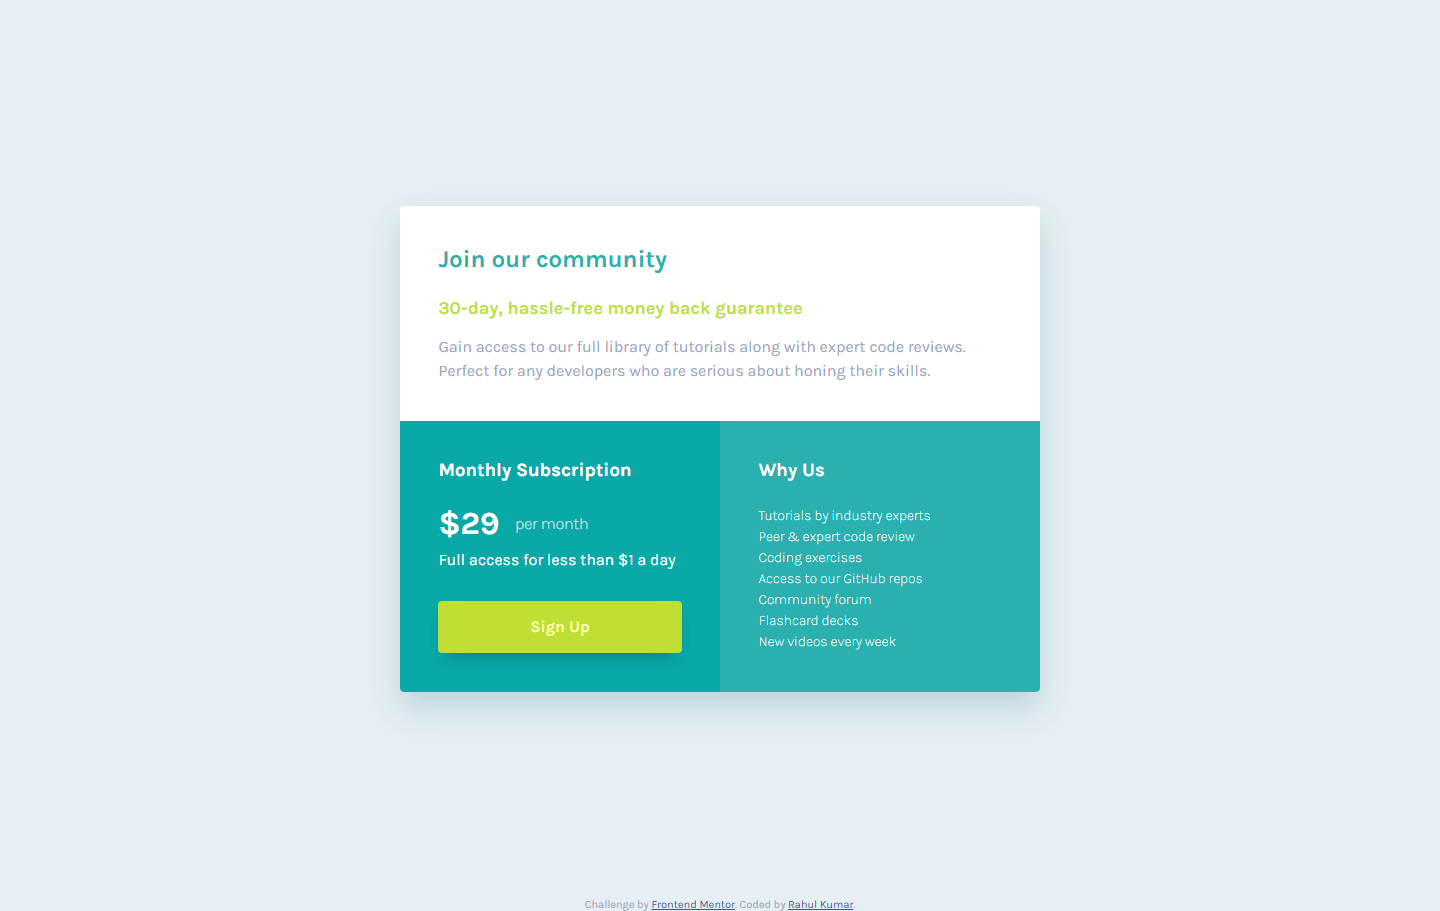
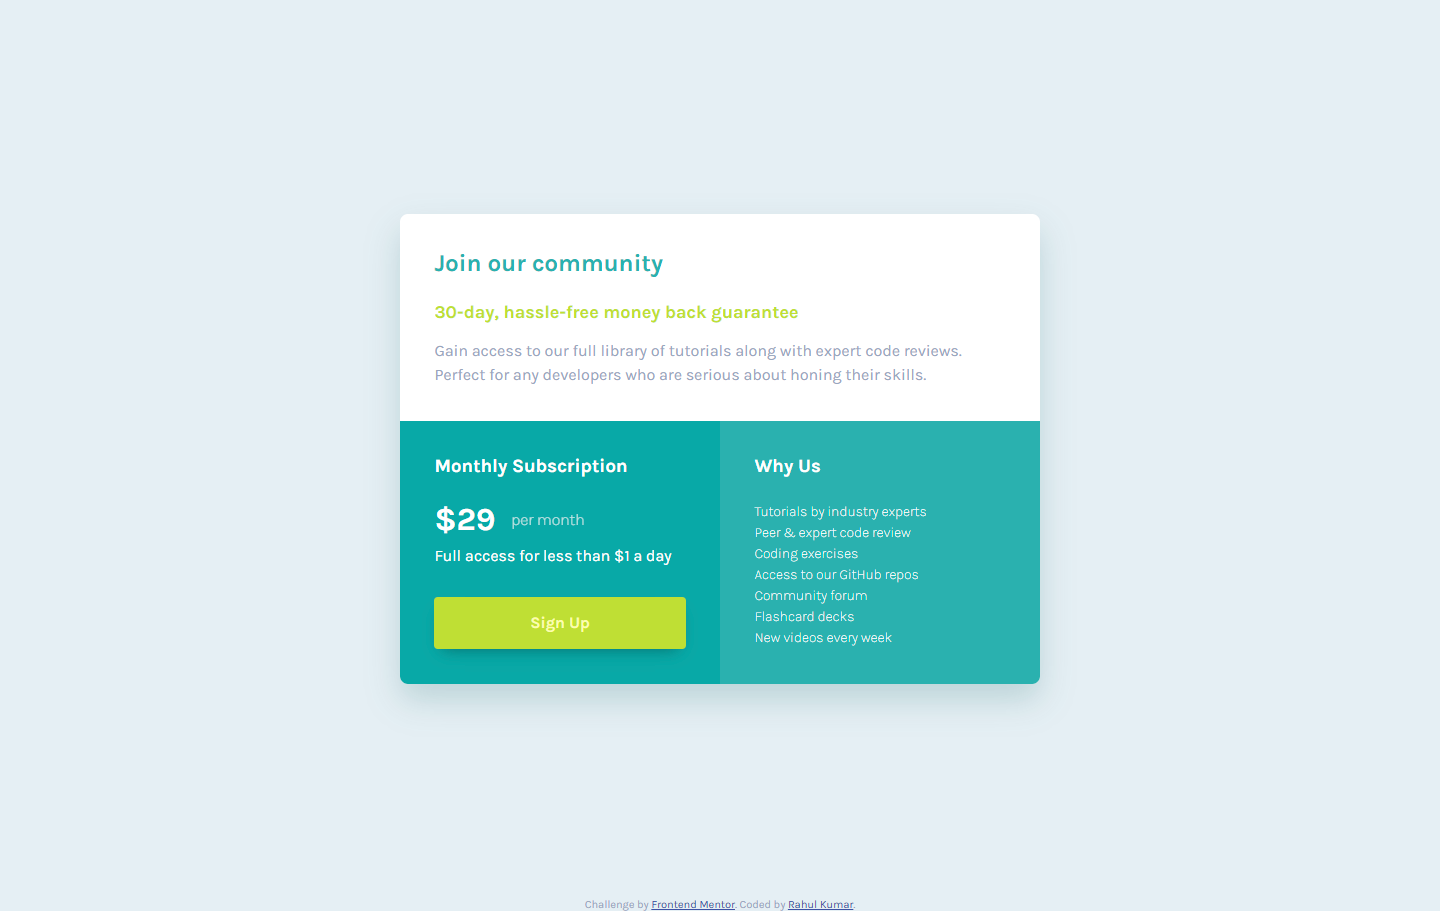
Small Issues Fixed

diff --git a/styles.css b/styles.css
@@ -47,7 +47,7 @@ h3 {
   margin-block-end: 1.5rem;
 }
 .intro {
-  padding: clamp(1.25rem, calc(var(--body-size) * 1.5 + 1vw), 3rem);
+  padding: clamp(1.25rem, calc(var(--body-size) * 1.25 + 1vw), 3rem);
 }
 .intro p {
   line-height: 1.5;
@@ -55,7 +55,7 @@ h3 {
 }
 .susbcription, .reason {
   color: var(--white);
-  padding: clamp(1.25rem, calc(var(--body-size) * 1.5 + 1vw), 3rem);
+  padding: clamp(1.25rem, calc(var(--body-size) * 1.25 + 1vw), 3rem);
   background-color: var(--teal-500);
 }
 .susbcription {
@@ -77,6 +77,7 @@ h3 {
 
   & .btn {
     width: stretch;
+    cursor: pointer;
     line-height: 1.5;
     font-weight: 700;
     color: var(--green-300);
@@ -87,7 +88,18 @@ h3 {
     padding: 0.75rem var(--body-size);
     background-color: var(--green-400);
     border-radius: calc(var(--body-size) / 4);
-    box-shadow: 0 0.5rem 1rem -0.5rem hsla(180, 88%, 10%, 0.5);
+    -webkit-transition: all 0.3s ease-in-out;
+    -moz-transition: all 0.3s ease-in-out;
+    -ms-transition: all 0.3s ease-in-out;
+    -o-transition: all 0.3s ease-in-out;
+    transition: all 0.3s ease-in-out;
+    box-shadow: 0 0.5rem 1rem -0.5rem hsla(179, 88%, 10%, 0.5);
+
+    &:hover, &:focus {
+      color: hsl(179, 88%, 10%);
+      border-radius: calc(var(--body-size) / 2);
+      transform: scale(1.025) translateY(-0.125rem);
+    }
   }
 }
 ul {
@@ -102,6 +114,7 @@ ul {
   main {
     margin-block: auto;
     grid-template-columns: repeat(2, 1fr);
+    border-radius: calc(var(--body-size) / 2);
   }
   .intro {
     grid-column: span 2;
